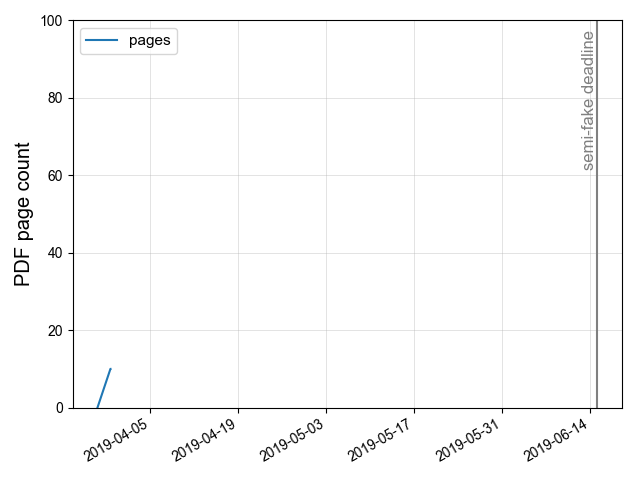
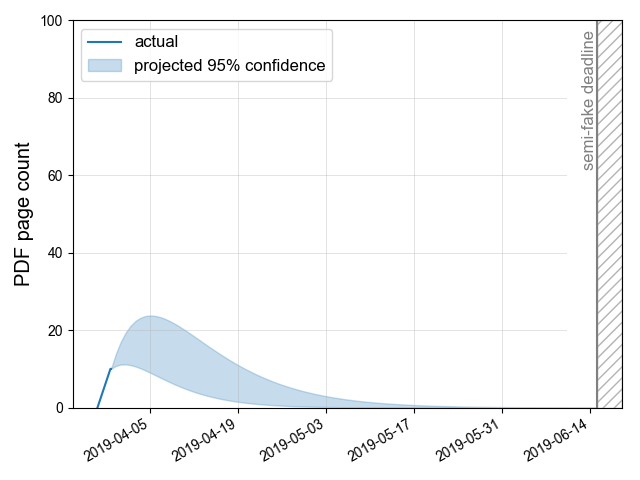
add fake projection

Changed region(s): [[0.1562, 0.6562, 0.75, 0.875], [0.9062, 0.0312, 0.9688, 0.8438], [0.125, 0.0312, 0.5312, 0.1562]]

diff --git a/scripts/plot_progress.py b/scripts/plot_progress.py
@@ -1,3 +1,5 @@
+#!/usr/bin/env python
+# coding: utf-8
 import os
 import sys
 import pandas as pd
@@ -5,16 +7,21 @@ import numpy as np
 import datetime
 import matplotlib.pyplot as plt
 import matplotlib as mpl
+from scipy import ndimage
 
 from matplotlib import rcParams
 rcParams["font.family"] = "sans-serif"
 rcParams["font.sans-serif"] = ["Helvetica", "Arial", "Liberation Sans", "Bitstream Vera Sans", "DejaVu Sans"]
-rcParams['legend.fontsize'] = 11
-rcParams['legend.labelspacing'] = 0.2
+rcParams['legend.fontsize'] = 12
 rcParams['axes.labelsize'] = 'x-large'
 
+
+# plt.xkcd()
+
+basedir = "/Users/namin/sandbox/notmythesis"
+
 data = []
-with open("logs/size_log.txt","r") as fh:
+with open("{}/logs/size_log.txt".format(basedir),"r") as fh:
     for line in fh:
         if not line.strip(): continue
         date, _, pages, _, _, b = line.strip().split()[1:-1]
@@ -22,22 +29,108 @@ with open("logs/size_log.txt","r") as fh:
         data.append([date,int(pages),int(b)*1.e-3])
 df = pd.DataFrame(data,columns=["date","pages","kb"])
 df["date"] = pd.to_datetime(df["date"])
+# print df["date"].to_pydatetime()
+# df["date"] = pd.Timestamp(df["date"]).to_pydatetime()
 
 fig,ax = plt.subplots()
-ax.plot(df["date"],df["pages"])
+ax.plot(df["date"],df["pages"],label="actual")
 ax.set_ylim([0.,100.])
 ax.set_ylabel("PDF page count")
-ax.legend()
 
 deadline = datetime.date(2019,6,15)
 plt.axvline(deadline,color="gray")
 ax.text(deadline,ax.get_ylim()[1],"semi-fake deadline  ",horizontalalignment="right",verticalalignment="top",rotation=90,color="gray",fontsize=12)
 
 p = mpl.patches.Rectangle((0.,0.),height=1.0,width=0.9,transform=ax.transAxes)
-ax.grid(axis="both",linewidth=0.5,alpha=0.5)
+ax.grid(axis="both",linewidth=0.5,alpha=0.5,clip_path=p)
+
+# print ax.get_xlim()
+# xnum0 = ax.get
+# xnum1 = 
+
+xdeadline = mpl.dates.date2num(deadline)
+
+def data_to_fig(x,y):
+    return fig.transFigure.inverted().transform(ax.transData.transform((x,y)))
+xfirst = mpl.dates.date2num(df["date"].dt.values[0])
+xlatest = mpl.dates.date2num(df["date"].dt.values[-1])
+yfirst = df["pages"].values[0]
+ylatest = df["pages"].values[-1]
+x0, y0 = ax.get_xlim()[0],ax.get_ylim()[0]
+x1, y1 = ax.get_xlim()[1],ax.get_ylim()[1]
+
+
+slope = (ylatest-yfirst)/(xlatest-xfirst)
+print slope
+# ax.plot([xlatest,x1],[ylatest,y1],color="r",marker="o")
+xs = np.linspace(xlatest,xdeadline,100)
+xnorms = (xs-xlatest)/(xs.max()-xs.min())
+# print xnorms
+ys_high = (ylatest + slope*1.5*(xs-xlatest))*np.exp(-10*xnorms)
+ys_low = (ylatest + slope*0.7*(xs-xlatest))*np.exp(-15*xnorms)
+# ax.plot(xs,ys,color="b",marker="o")
+print xs
+print xdeadline
+ax.fill_between(xs,ys_low,ys_high,color="C0",alpha=0.25,label="projected 95% confidence")
+print df
+
+ax.legend()
+
+p = mpl.patches.Rectangle((xdeadline,0.),height=ax.get_ylim()[1],width=(ax.get_xlim()[1]-xdeadline),transform=ax.transData,edgecolor=(0.7,0.7,0.7),hatch="///",facecolor="none")
+ax.add_patch(p)
+print p
+
+# # xw = 0.05*(ax.get_xlim()[1]-ax.get_xlim()[0])
+# # yw = 0.05*(ax.get_ylim()[1]-ax.get_ylim()[0])
+# xw_fig = 0.15*(xr_fig-xl_fig)
+# yh_fig = 0.15*(yt_fig-yb_fig)
+# # print x0,y0,xw,yw
+# print x0_fig,y0_fig,xw_fig,yh_fig
+# # ax2 = fig.add_axes([x0,y0,xw,yw],transform=ax.transData)
+# poo_img = plt.imread("poo-mark.png")
+
+# ax.imshow(poo_img,extent=[0,1,0,1],aspect="auto")
+
+# ax2 = fig.add_axes([x0_fig-xw_fig/2.,y0_fig-yh_fig/2.,xw_fig,yh_fig],frameon=False,anchor="C")
+# tr = mpl.transforms.Affine2D().rotate_deg(60.)
+# ax2.imshow(poo_img,alpha=0.3,transform=tr+ax2.transData,extent=[-1,1,-1,1])
+# # ax2.imshow(poo_img,alpha=0.3)
+# # ax2.set_transform(tr+ax2.transData)
+# print ax2
+# # ax2.axis("off")
+# # print (fig.transFigure + ax.transAxes.inverted()).transform((x0,y0))
+
+
+# ax.yaxis.set_minor_locator(mpl.ticker.MultipleLocator(5.))
+# ax.yaxis.set_major_locator(mpl.ticker.MultipleLocator(20.))
+
+# ax.grid(axis="both",linewidth=0.5,alpha=0.5,clip_path=p)
+
+# box = mpl.transforms.Bbox.from_bounds(0.8, 0, 0.2, 0.2)
+# ax2 = fig.add_axes(fig.transFigure.inverted().transform_bbox( ax.transAxes.transform_bbox(box)))
+
+# x,y = mpl.dates.date2num(df["date"].dt.values[-1]),df["pages"].values[-1]
+# print x,y
+# print fig.add_axes([0.,0.,0.1,0.1],transform=ax.transData,projection="rectilinear")
+#     # loc[0]/fig_width-poo_size/2, loc[1]/fig_height-poo_size/2,
+#     #                        poo_size, poo_size], anchor='C')
+
+# poo_img = plt.imread("poo-mark.png")
+# ax_width = ax.get_window_extent().width
+# fig_width = fig.get_window_extent().width
+# fig_height = fig.get_window_extent().height
+# poo_size = ax_width/(fig_width*len(x))
+# poo_axs = [None for i in range(len(x))]
+# loc = ax.transData.transform((x,y))
+# poo_axs[i] = fig.add_axes([loc[0]/fig_width-poo_size/2, loc[1]/fig_height-poo_size/2,
+#                            poo_size, poo_size], anchor='C')
+# poo_axs[i].imshow(poo_img)
+# poo_axs[i].axis("off")
 
 fig.autofmt_xdate()
 
 fig.set_tight_layout(True)
-fig.savefig("figs/misc/progress.png")
-fig.savefig("figs/misc/progress.pdf")
+fig.savefig("{}/figs/misc/progress.png".format(basedir))
+fig.savefig("{}/figs/misc/progress.pdf".format(basedir))
+
+os.system("ic {}/figs/misc/progress.png".format(basedir))

diff --git a/README.md b/README.md
@@ -1,4 +1,5 @@
 ## This is not my thesis
 
+### Progress
+
 ![progress](figs/misc/progress.png)
-![progress](figs/misc/progress.pdf)
